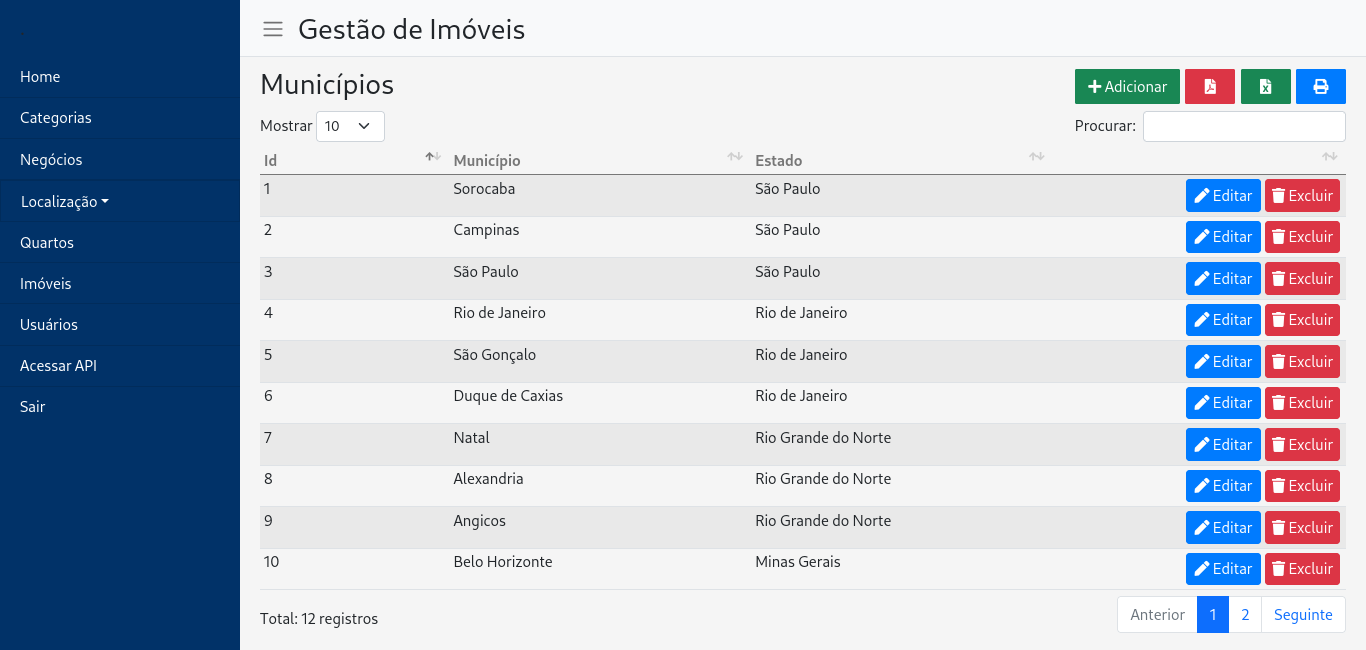
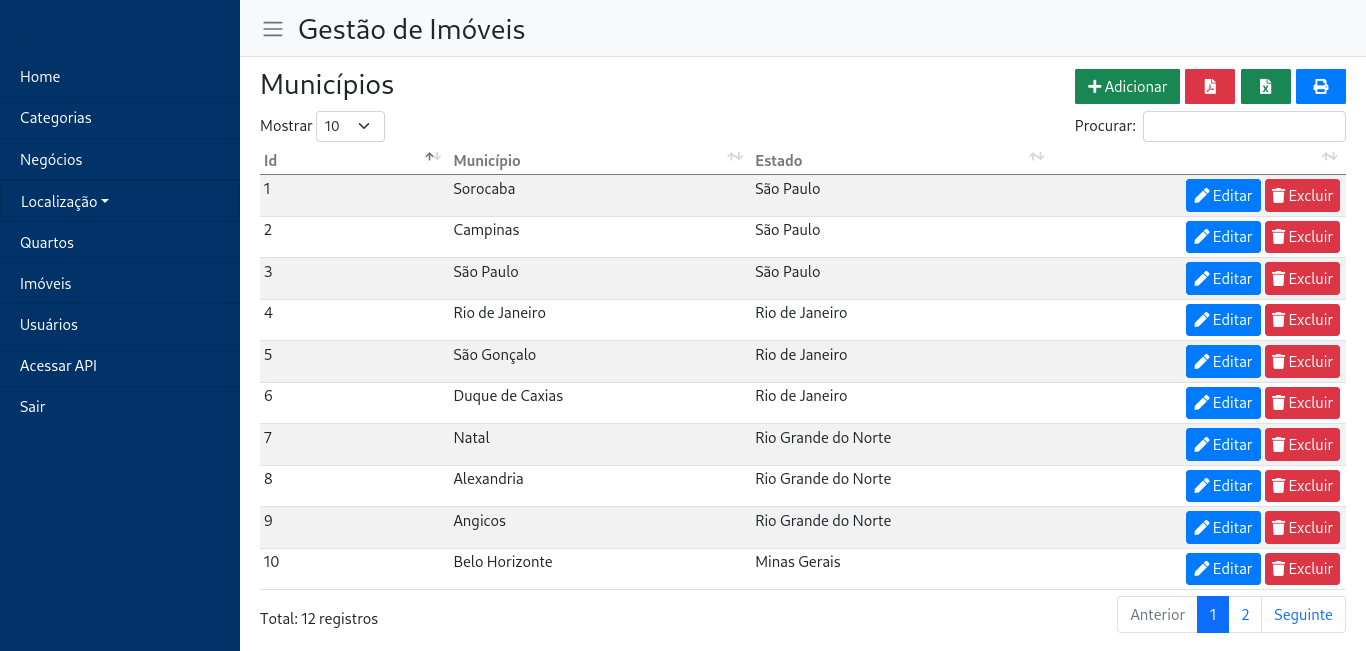
Atualização de arquivos

diff --git a/src/main/resources/static/css/style.css b/src/main/resources/static/css/style.css
@@ -1,5 +1,5 @@
 body {
-    background-color: #f5f5f5;
+    background-color: #fff;
     font-size: 15px;
 }
 
@@ -122,6 +122,15 @@ body {
 
 .text-center {
     text-align: center !important;
+}
+
+div.dataTables_wrapper div.dataTables_filter input {
+    margin-left: .2em !important;
+}
+
+table.dataTable.dtr-inline.collapsed > tbody > tr > td.dtr-control::before {
+    right: -210px !important;
+    left: auto !important;
 }
 
 #data-table_wrapper {
@@ -455,5 +464,17 @@ body {
 
     .input-search {
         max-width: 100%;
+    }
+
+    #data-table td, #data-table th {
+        padding: 4px 4px !important;
+    }
+
+    table.dataTable > tbody > tr.child ul.dtr-details {
+        width: 100% !important;
+    }
+
+    table.dataTable > tbody > tr.child ul.dtr-details > li:last-child {
+        margin-top: -18px !important;
     }
 }
